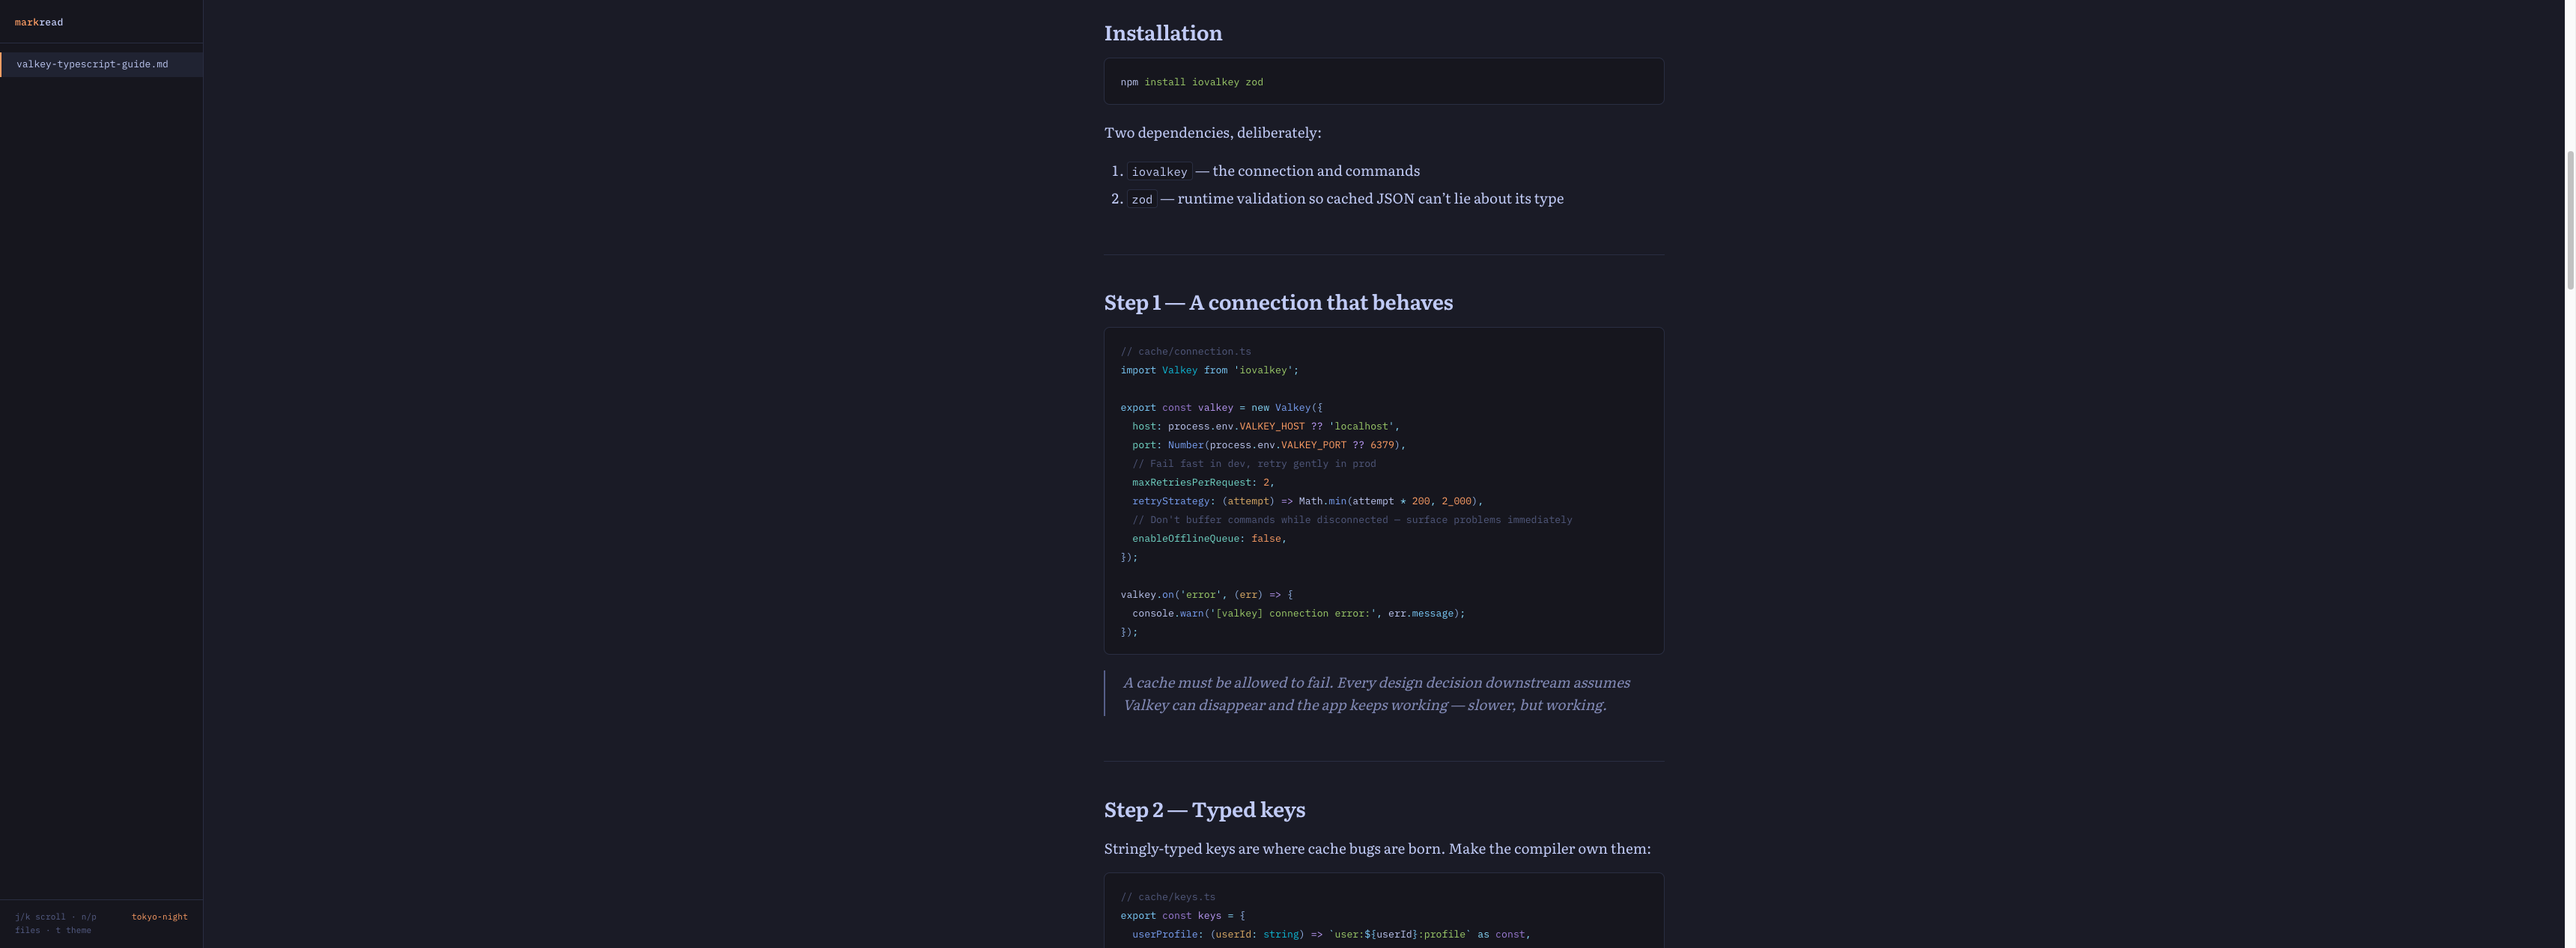
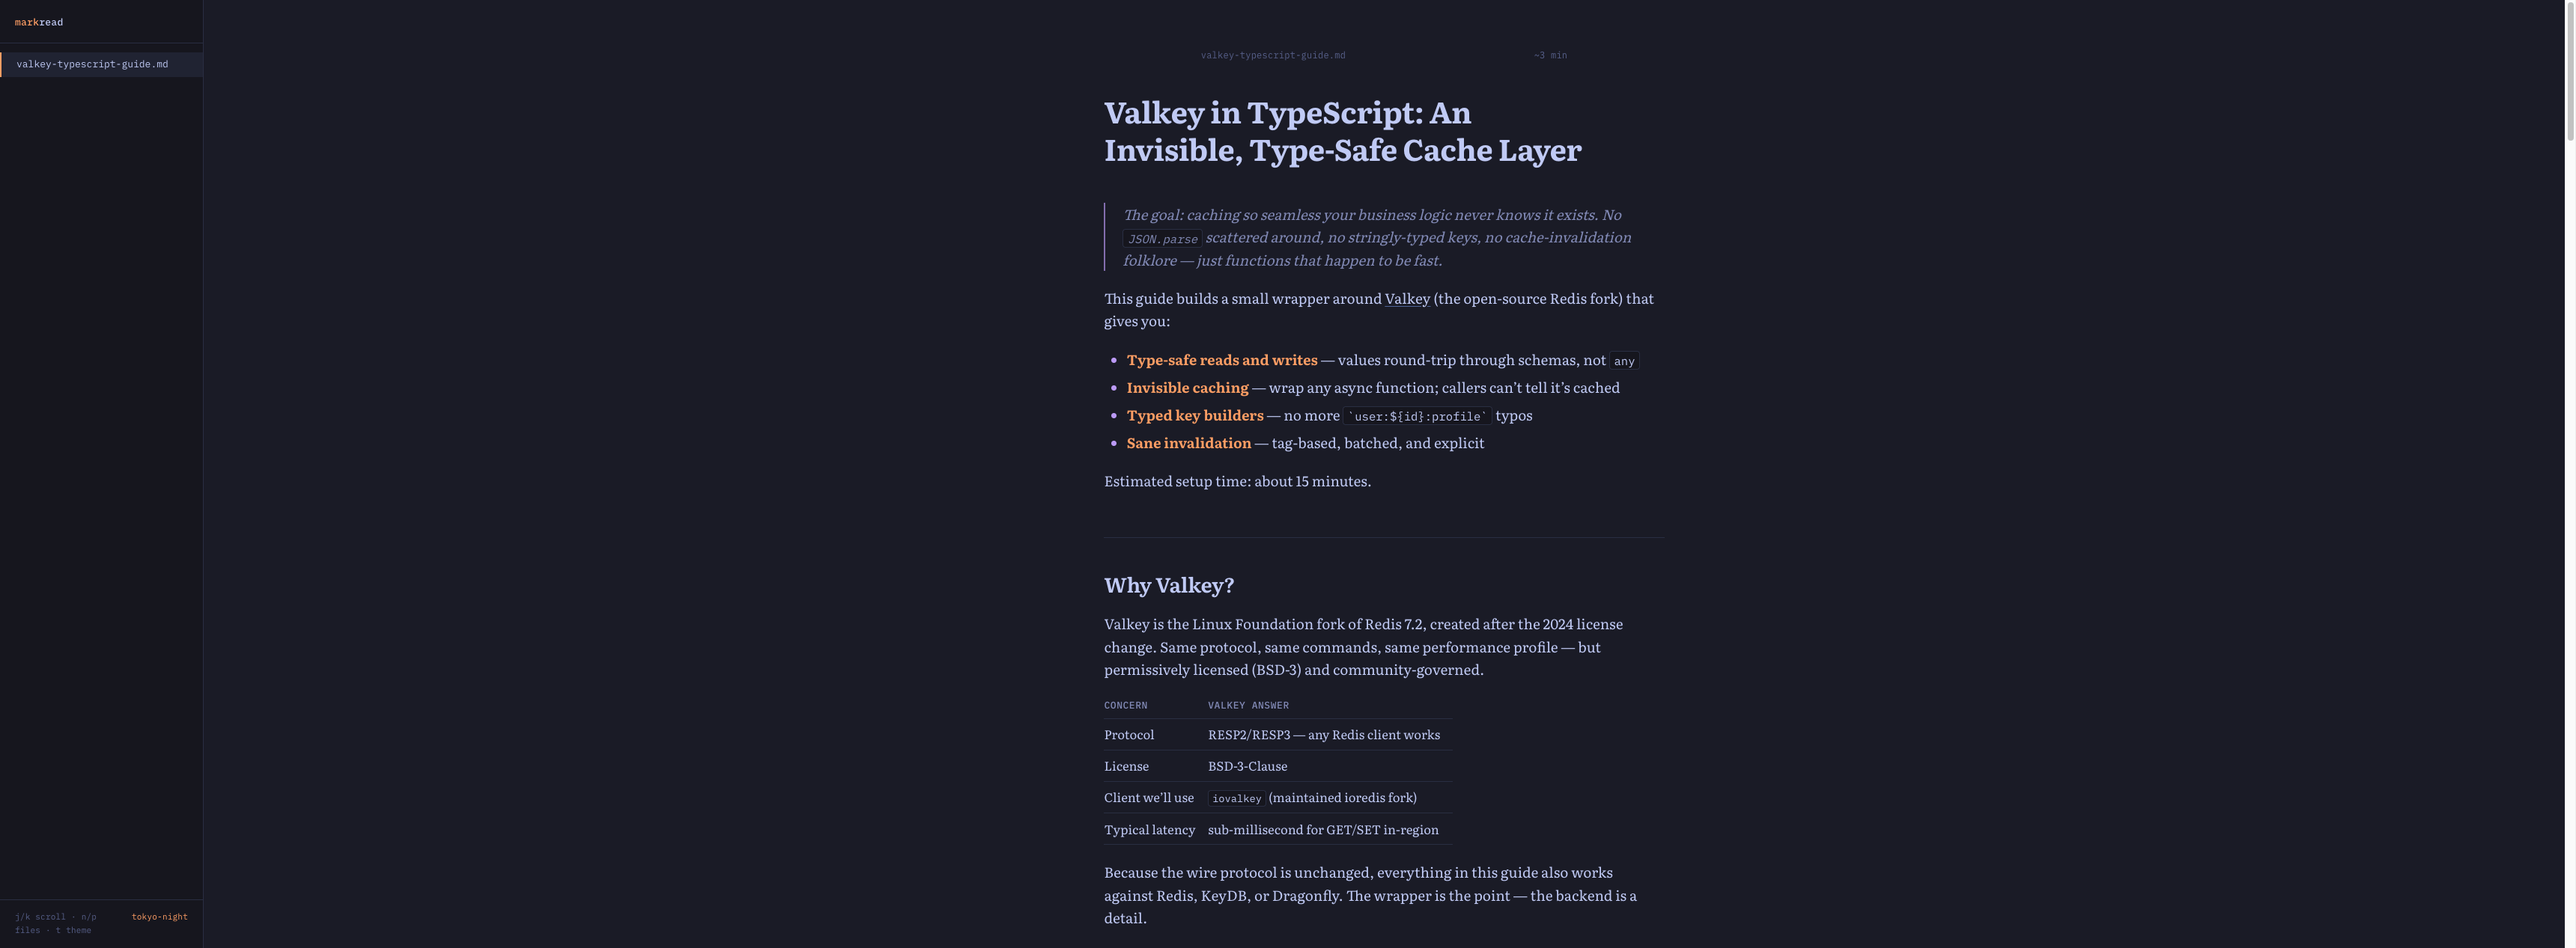
Give each theme a semantic accent palette for prose
Bold text, link underlines, list markers, and blockquote bars now
carry theme color: copper on light paper, monochrome peach in
Vesper, and orange/blue/purple split in Tokyo Night (bold/links/
markers). Emphasis tint applies to body prose only — bold inside
headings and quotes inherits context color.

diff --git a/web/src/styles.css b/web/src/styles.css
@@ -16,6 +16,11 @@
   /* The reward color. Use sparingly or it stops working. */
   --accent: #b4642d;
 
+  /* Semantic text palette — per theme */
+  --emphasis: #9a4d15; /* bold text */
+  --link: #9a4d15; /* link underline + hover */
+  --marker: #b4642d; /* list bullets, quote bar */
+
   --font-body: 'Literata Variable', Georgia, serif;
   --font-ui: 'IBM Plex Mono', ui-monospace, SFMono-Regular, Menlo, monospace;
 
@@ -37,6 +42,10 @@
   --ink-faint: #575757;
   --rule: #232323;
   --accent: #ffc799;
+  /* Vesper is monochrome + peach. One accent, everywhere. */
+  --emphasis: #ffc799;
+  --link: #ffc799;
+  --marker: #ffc799;
 }
 
 /* Tokyo Night — indigo depths, storm-blue inks, neon at the edges. */
@@ -48,6 +57,10 @@
   --ink-faint: #565f89;
   --rule: #292e42;
   --accent: #ff9e64;
+  /* Tokyo Night earns its multi-color reputation. */
+  --emphasis: #ff9e64; /* orange — bold */
+  --link: #7aa2f7; /* blue — links */
+  --marker: #bb9af7; /* purple — bullets & quote bars */
 }
 
 * {
@@ -242,22 +255,28 @@ body,
 .doc-content a {
   color: inherit;
   text-decoration: underline;
-  text-decoration-color: var(--ink-faint);
+  text-decoration-color: color-mix(in srgb, var(--link) 55%, transparent);
   text-underline-offset: 0.18em;
-  transition: text-decoration-color 120ms ease;
+  transition: color 120ms ease, text-decoration-color 120ms ease;
 }
 
 .doc-content a:hover {
-  text-decoration-color: var(--ink);
+  color: var(--link);
+  text-decoration-color: var(--link);
 }
 
 .doc-content strong {
   font-weight: 660;
+  color: var(--emphasis);
 }
 
 .doc-content ul,
 .doc-content ol {
   padding-left: 1.6em;
+}
+
+.doc-content li::marker {
+  color: var(--marker);
 }
 
 .doc-content li + li {
@@ -270,10 +289,20 @@ body,
 }
 
 .doc-content blockquote {
-  border-left: 2px solid var(--ink-faint);
+  border-left: 2px solid color-mix(in srgb, var(--marker) 65%, transparent);
   padding-left: 1.2em;
   color: var(--ink-soft);
   font-style: italic;
+}
+
+/* Bold inside headings/quotes keeps its context color — emphasis
+   tint is for body prose only. */
+.doc-content h1 strong,
+.doc-content h2 strong,
+.doc-content h3 strong,
+.doc-content h4 strong,
+.doc-content blockquote strong {
+  color: inherit;
 }
 
 .doc-content hr {
